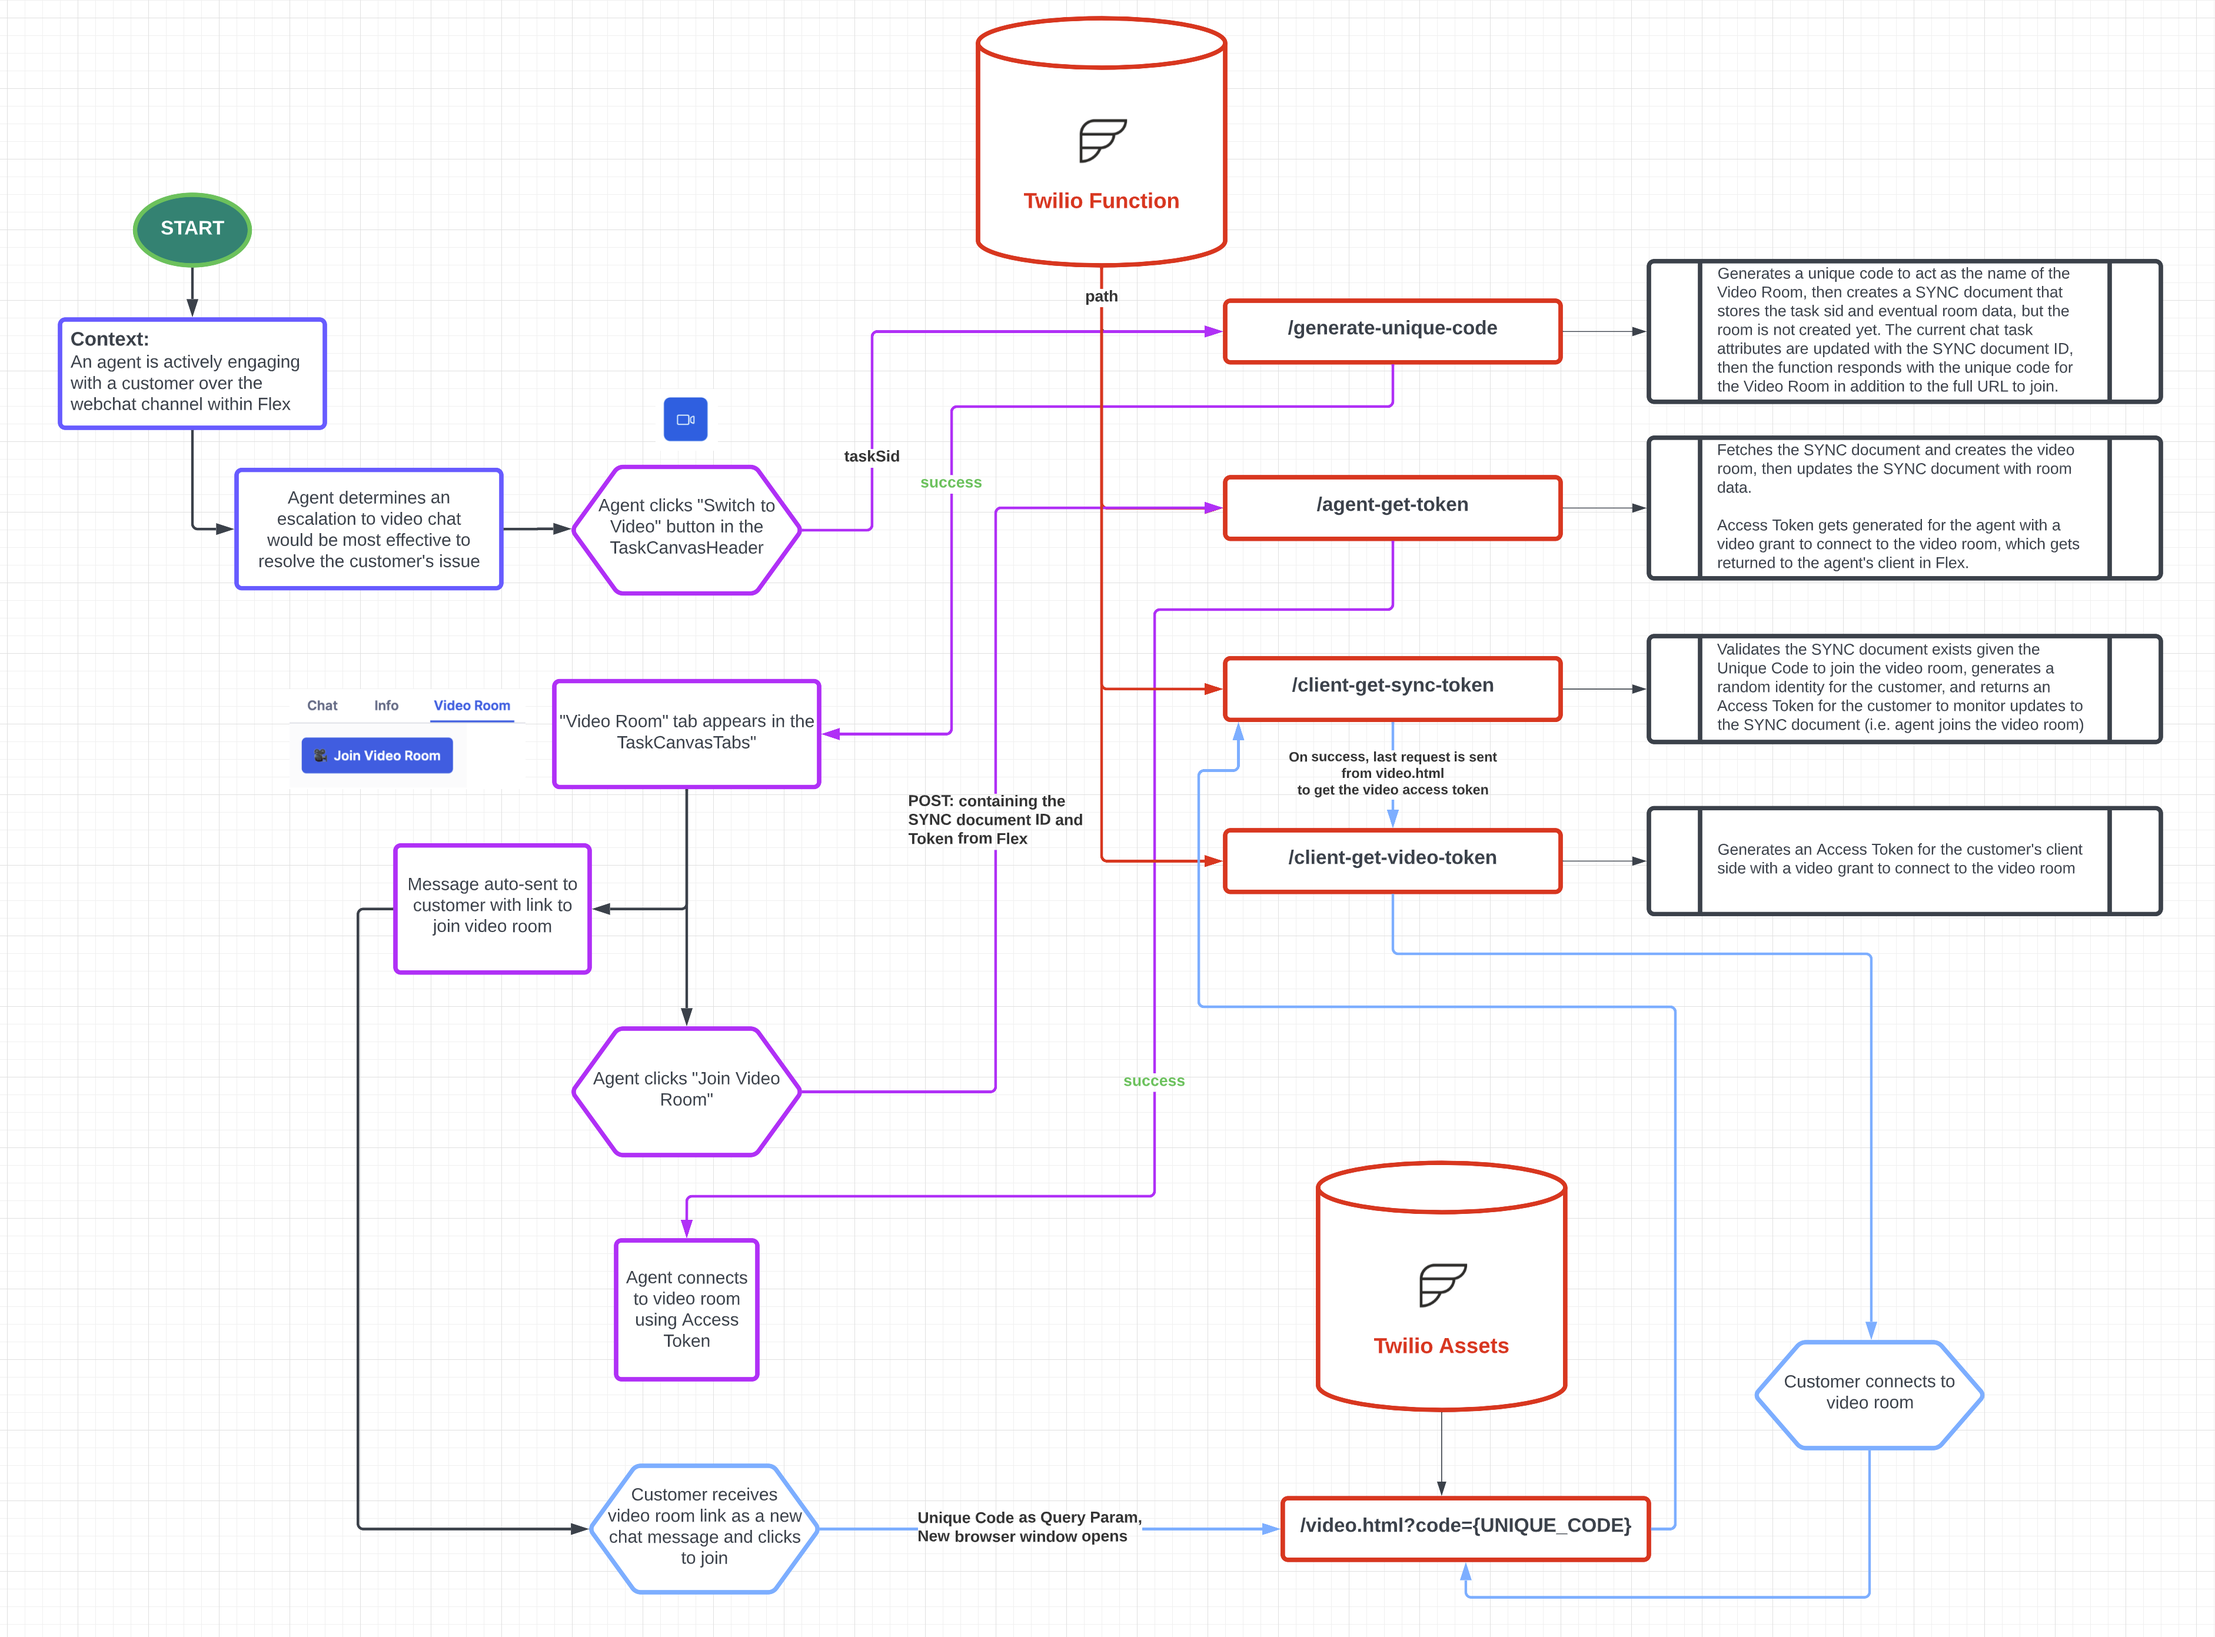
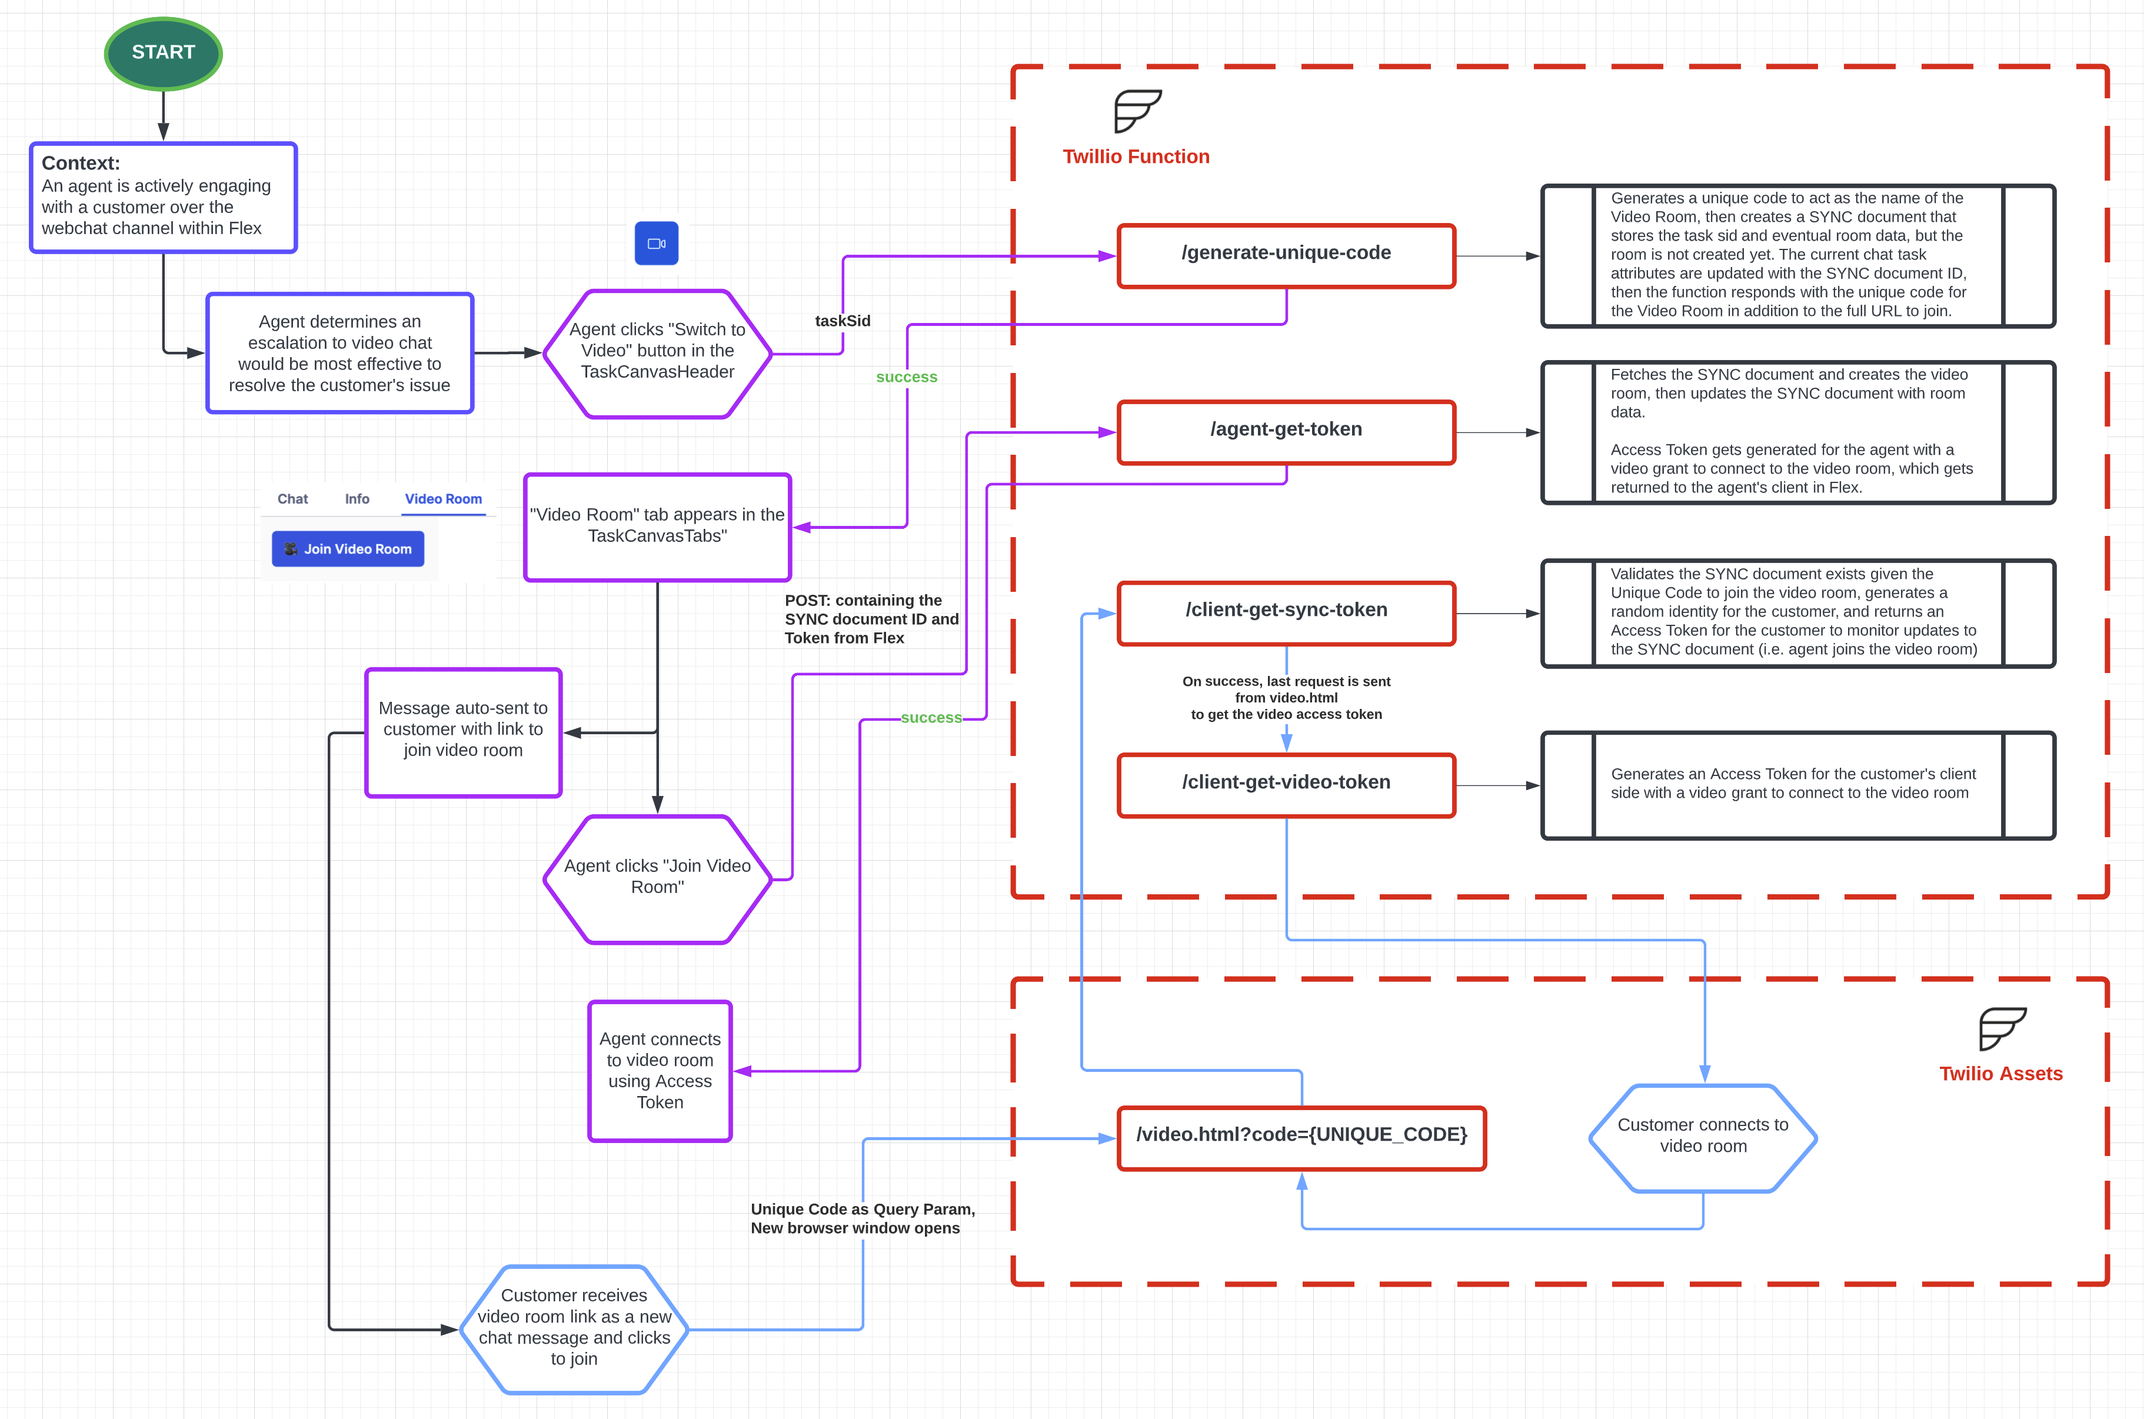
README Updates

diff --git a/README.md b/README.md
@@ -21,12 +21,6 @@ This Flex Plugin shows how an agent can initiate a video room from a webchat con
 
 The following diagram demonstrates how a chat session can be escalated to video. More specifically, this flow outlines the technical details from agent initiation to connecting to the video room.
 
-Component coloring key:
-
-- _purple_ - Agent related, within the Flex plugin
-- _red_ - Twilio Functions & Assets
-- _blue_ - Customer side
-
 <img  src="./readme_assets/Chat-to-Video-Diagram.png"  alt="Twilio"  width="100%"  />
 
 ### Video Room JS SDK Events
@@ -178,6 +172,10 @@ You need to modify the source file to mention the serverless domain of the funct
    ```bash
    twilio flex:plugins:deploy --major --changelog "Initial Agent Video Escalation on Web Chat" --description "Agent Video Escalation"
    ```
+
+### Testing with Web Chat
+
+To test this functionality locally with Flex 2.0, clone the [Twilio Flex Web Chat UI Sample](https://github.com/twilio/flex-webchat-ui-sample) React app.
 
 ## View your plugin in the Plugins Dashboard
 
